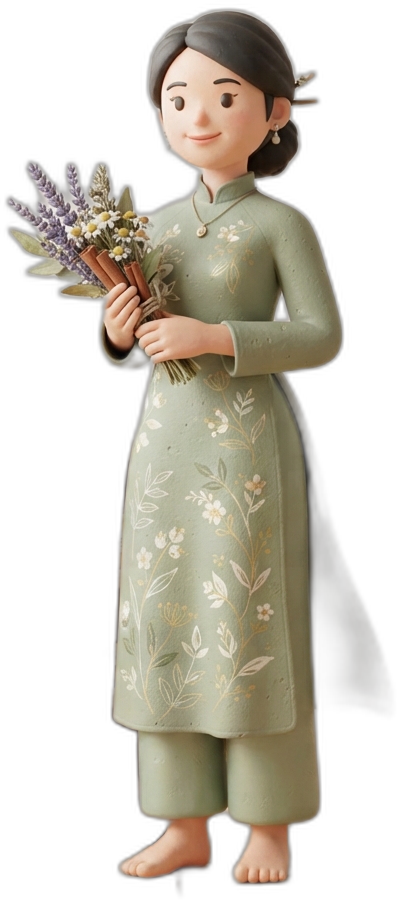
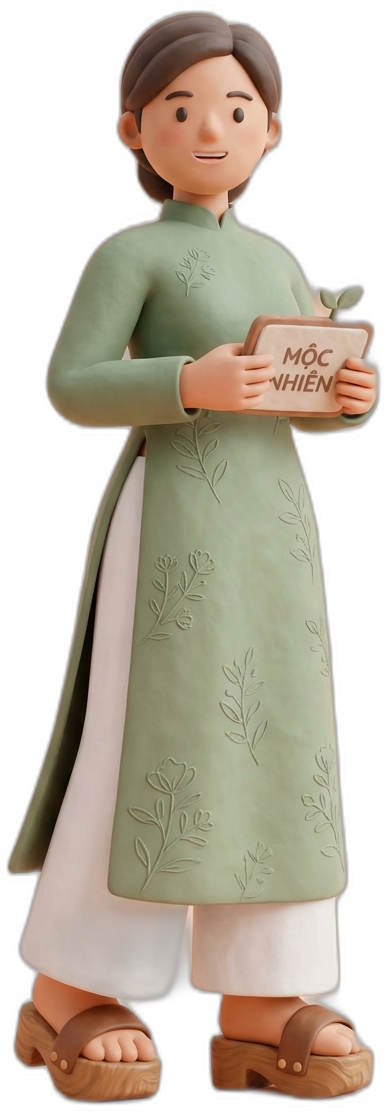
Thay tạo hình Mộc Nhiên và Phù Sa Foods bằng bản có nhận diện thương hiệu (#199)
Hai bản mới hiện rõ tên thương hiệu ngay trên tạo hình, giúp bộ chọn
doanh nghiệp dễ nhận ra hơn:
- moc-nhien-aodai-cut.png – áo dài xanh lá thêu thảo mộc, cầm biển hiệu
  «MỘC NHIÊN» có mầm cây
- phu-sa-foods-aodai-cut.png – áo dài vàng khăn đóng, khay đặc sản kèm
  cờ hiệu «PHÙ SA FOODS»
Cắt nền bằng rembg (ảnh gốc có nền cửa hàng và nền màu). Bump cache
bizon-v172.

Claude-Session: https://claude.ai/code/session_01H5UWzpPgbAtzMjFgfvSPV7

diff --git a/js/error-log.js b/js/error-log.js
@@ -8,7 +8,7 @@
  * Tắt backend (enabled=false) là tắt luôn giám sát lỗi. */
 (function () {
   const QKEY = 'bizon-error-queue';
-  const APP_VER = 'bizon-v171'; // khớp CACHE trong sw.js – biết lỗi thuộc phiên bản nào
+  const APP_VER = 'bizon-v172'; // khớp CACHE trong sw.js – biết lỗi thuộc phiên bản nào
   const MAX_PER_LOAD = 5;       // chống bão lỗi lặp: tối đa 5 bản ghi mỗi lượt tải trang
   let sent = 0;
   const seen = new Set();

diff --git a/sw.js b/sw.js
@@ -1,7 +1,7 @@
 /* BizOn Bật Nghiệp 2026 – Service Worker (offline app shell)
  * © 2026 Đỗ Thùy Hương & Phan Anh Tú. Bảo lưu mọi quyền. */
 
-const CACHE = 'bizon-v171';
+const CACHE = 'bizon-v172';
 const SHELL = [
   './',
   './index.html',
